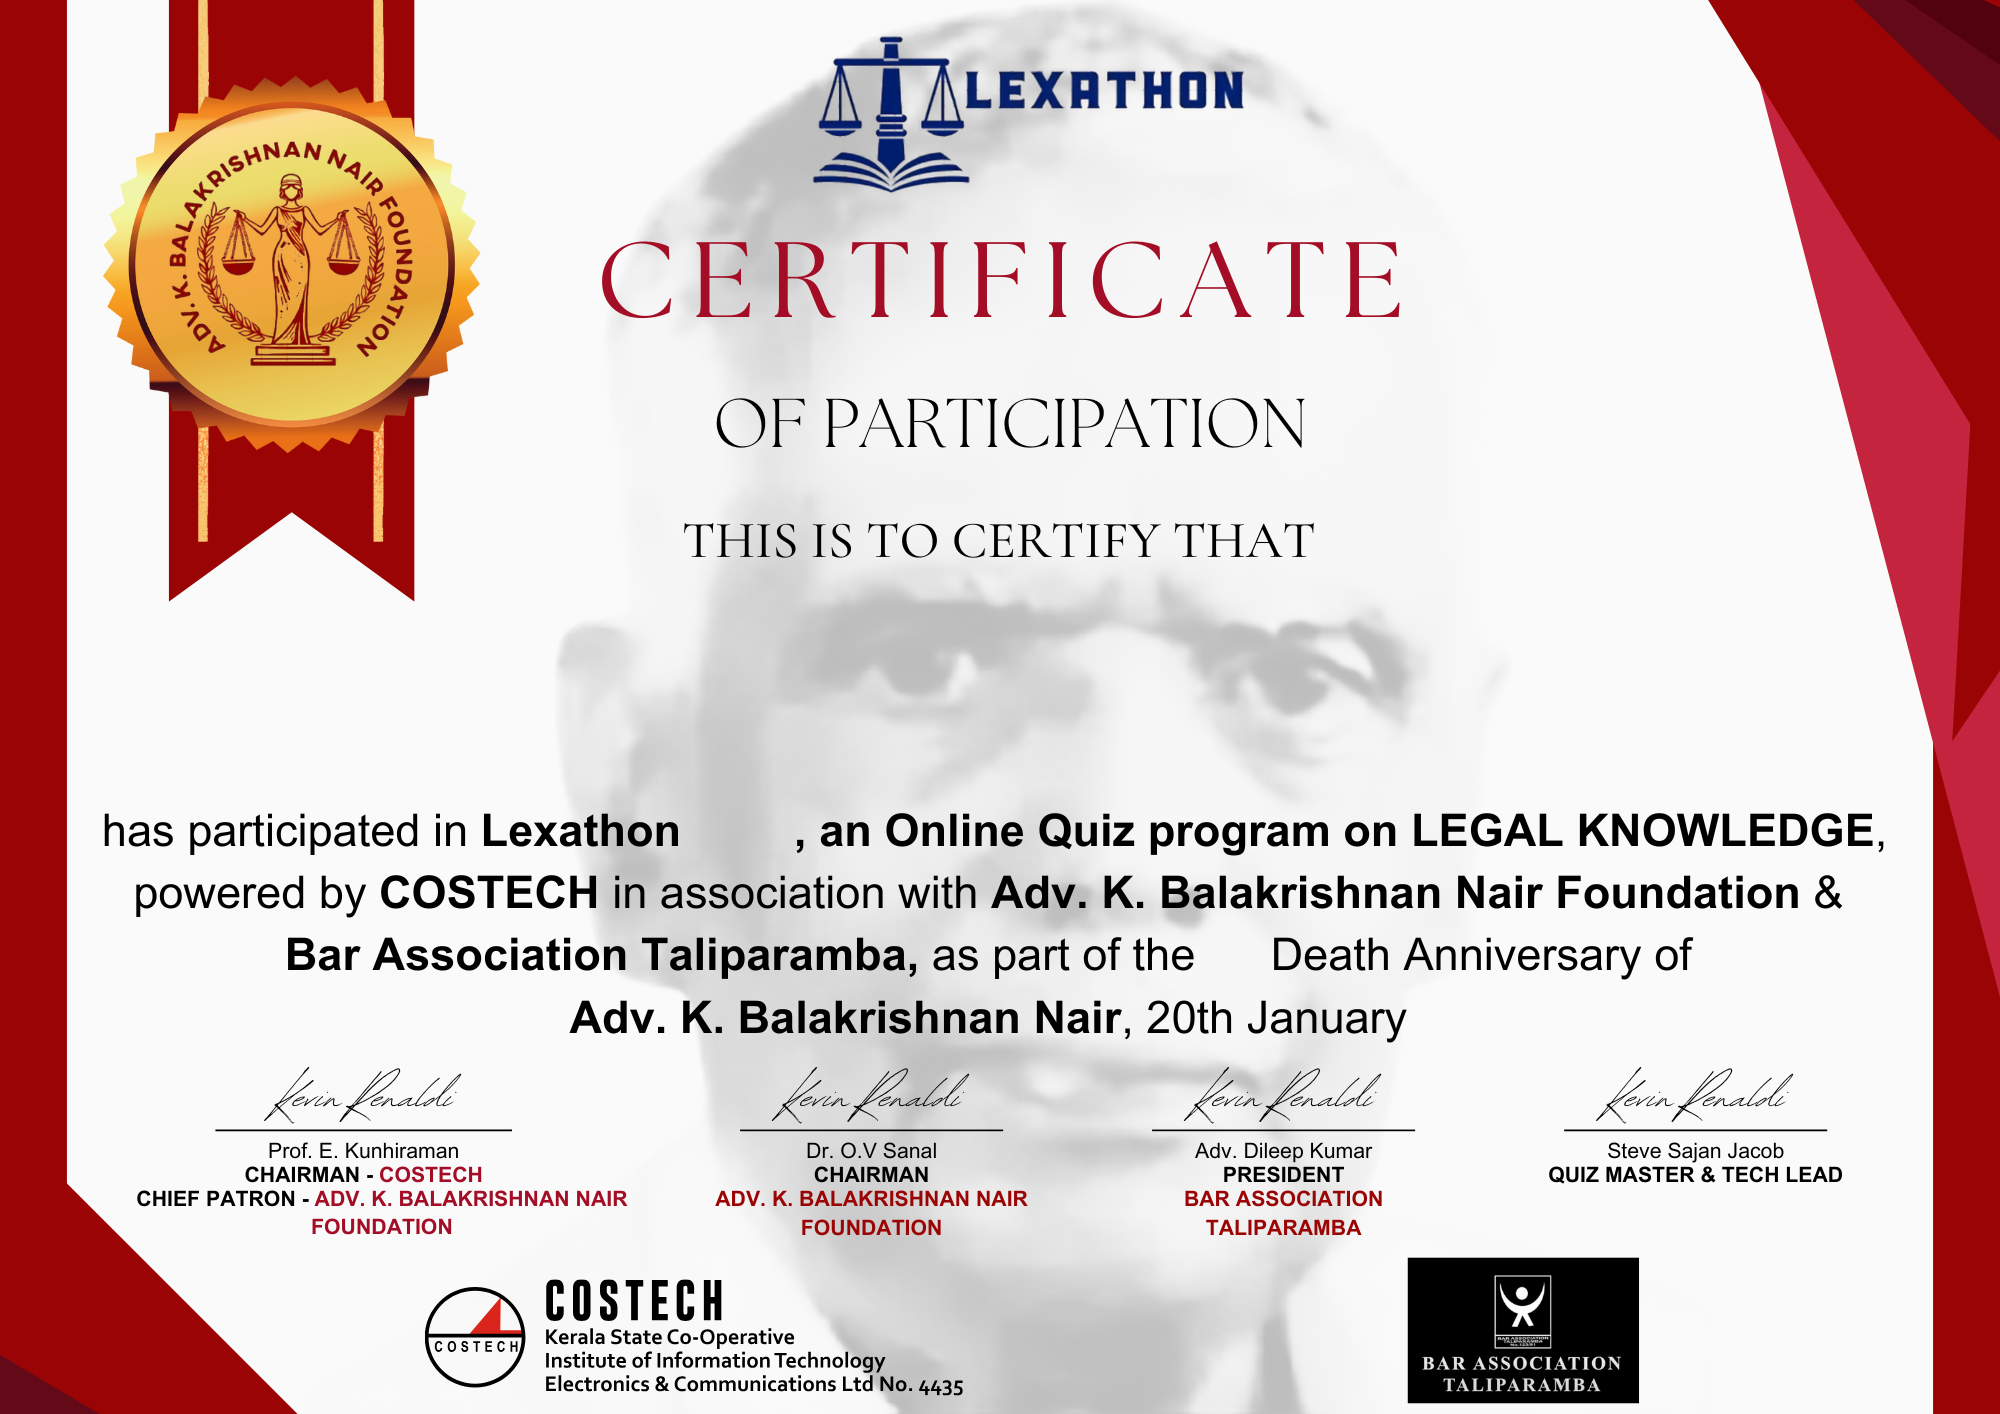
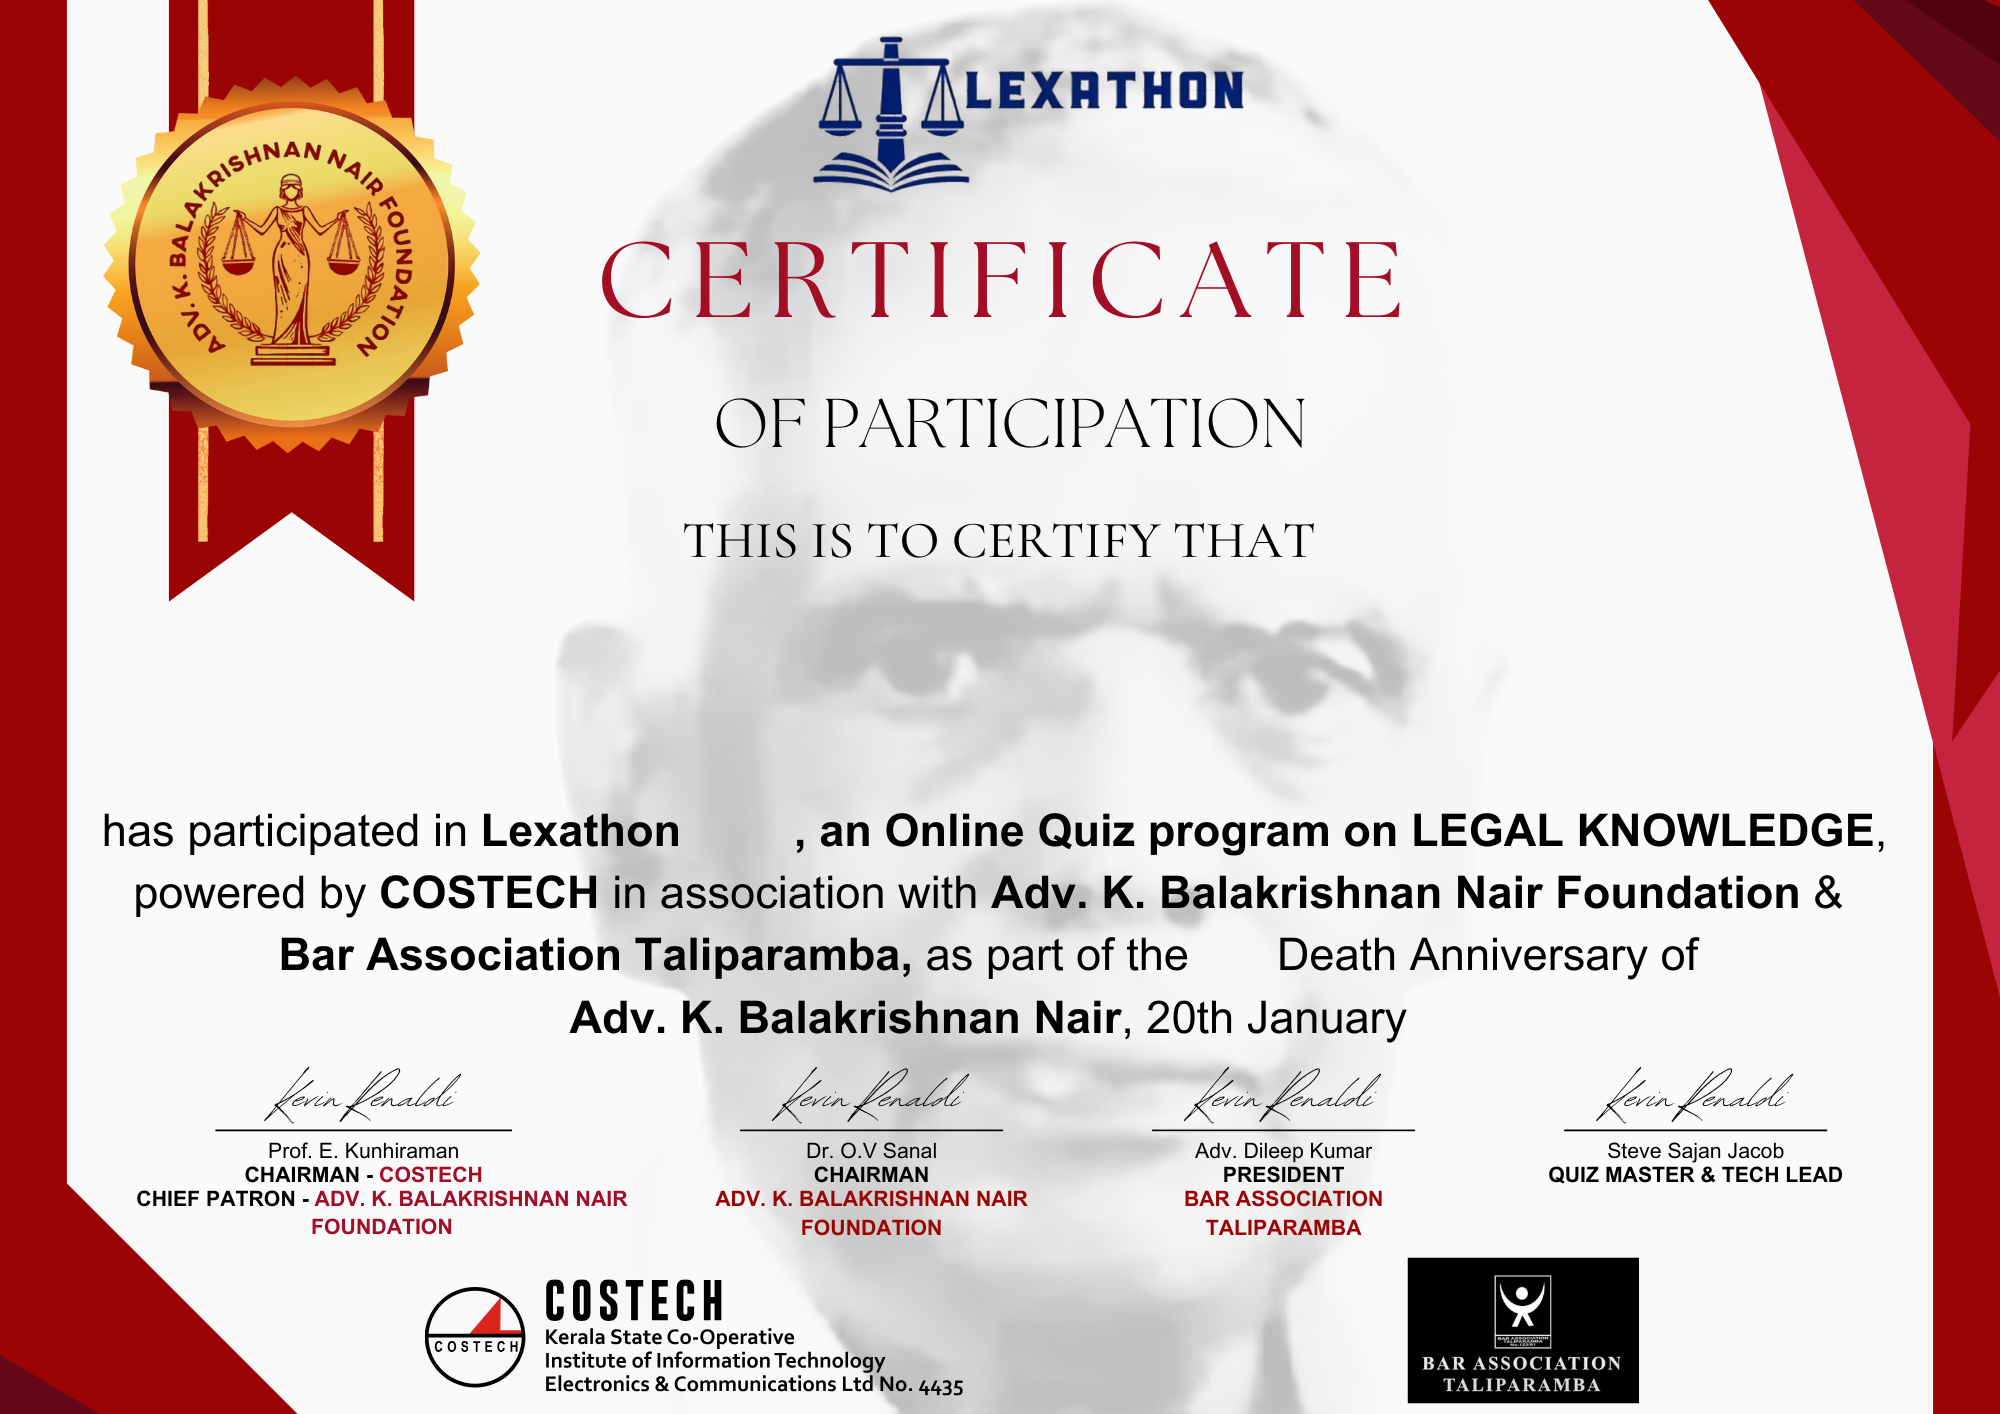
certificate_update

Changed region(s): [[0.124, 0.6535, 0.589, 0.6846], [0.62, 0.6535, 0.868, 0.6846]]

diff --git a/quiz/participant_download_certificate.php b/quiz/participant_download_certificate.php
@@ -106,6 +106,8 @@ if ($result->num_rows > 0) {
         $fontColor = imagecolorallocate($image, 155, 4, 4);
         $year_logo_color
             = imagecolorallocate($image, 6, 31, 106);
+        $text_color
+            = imagecolorallocate($image, 0, 0, 0);
         $angle = 0;
         $nameFontSize = 70;
         $logo_year_size = 40;
@@ -114,14 +116,32 @@ if ($result->num_rows > 0) {
         $imageWidth = imagesx($image);
         $nameBox = imagettfbbox($nameFontSize, $angle, $fontPath, $name);
         $nameWidth = $nameBox[2] - $nameBox[0];
-        $nameX = ($imageWidth - $nameWidth) / 2;
+        $nameX = (($imageWidth - $nameWidth) / 2) - 40;
         $nameY = 720;
 
-        $yearX = 1050; // Adjust based on design
-        $yearY = 160;
+        $logo_yearX = 1050; // Adjust based on design
+        $logo_yearY = 160;
 
-        imagettftext($image, $nameFontSize, $angle, $nameX, $nameY, $fontColor, $fontPath, $name);
-        imagettftext($image, $logo_year_size, $angle, $yearX, $yearY, $year_logo_color, $boldFontPath, $year);
+        $lex_text_yearX = 700;
+        $lex_text_yearY = 847;
+        $lex_text_year_size = 32;
+
+        $anniversery_number_ordinalX = 1200;
+        $anniversery_number_ordinalY = 970;
+        $anniversery_number_ordinal_size = 32;
+
+        $anniversery_yearX = 1420;
+        $anniversery_yearY = 1035;
+        $anniversery_year_size = 32;
+
+        imagettftext($image, $nameFontSize, $angle, $nameX, $nameY, $fontColor, $boldFontPath, $name);
+        imagettftext($image, $logo_year_size, $angle, $logo_yearX, $logo_yearY, $year_logo_color, $boldFontPath, $year);
+
+        imagettftext($image, $lex_text_year_size, $angle, $lex_text_yearX, $lex_text_yearY, $text_color, $boldFontPath, $year);
+
+        imagettftext($image, $anniversery_number_ordinal_size, $angle, $anniversery_number_ordinalX, $anniversery_number_ordinalY, $text_color, $fontPath, $anniversery_number_ordinal);
+
+        imagettftext($image, $anniversery_year_size, $angle, $anniversery_yearX, $anniversery_yearY, $text_color, $fontPath, $year . '.');
 
         imagepng($image);
         imagedestroy($image);

diff --git a/quiz/participant_attempt_quiz.php b/quiz/participant_attempt_quiz.php
@@ -244,6 +244,7 @@ if ($quiz['start_time'] != null && $quiz['stop_time'] != null) {
             <div class="waiting-message-container">
                 <h3>Quiz has not started yet.</h3>
                 <h3>Please wait for Quiz Master's Instruction.</h3>
+                <h3>NB: Any attempt at malpractice, including opening other applications during the quiz, will result in immediate disqualification.</h3>
                 <h4 id="instruction_text"></h4>
                 <button id="exam_btn" onclick="location.reload()">Load Quiz</button>
             </div>
@@ -281,7 +282,7 @@ if ($quiz['start_time'] != null && $quiz['stop_time'] != null) {
                 let rinput = document.createElement("input");
                 rinput.type = "hidden";
                 rinput.name = "cheat_reason";
-                rinput.value = "Detected Potential Malpractice";
+                rinput.value = "Detected Potential attempt to access other application.";
                 form.appendChild(rinput);
 
                 // Append the form to the body and submit it
